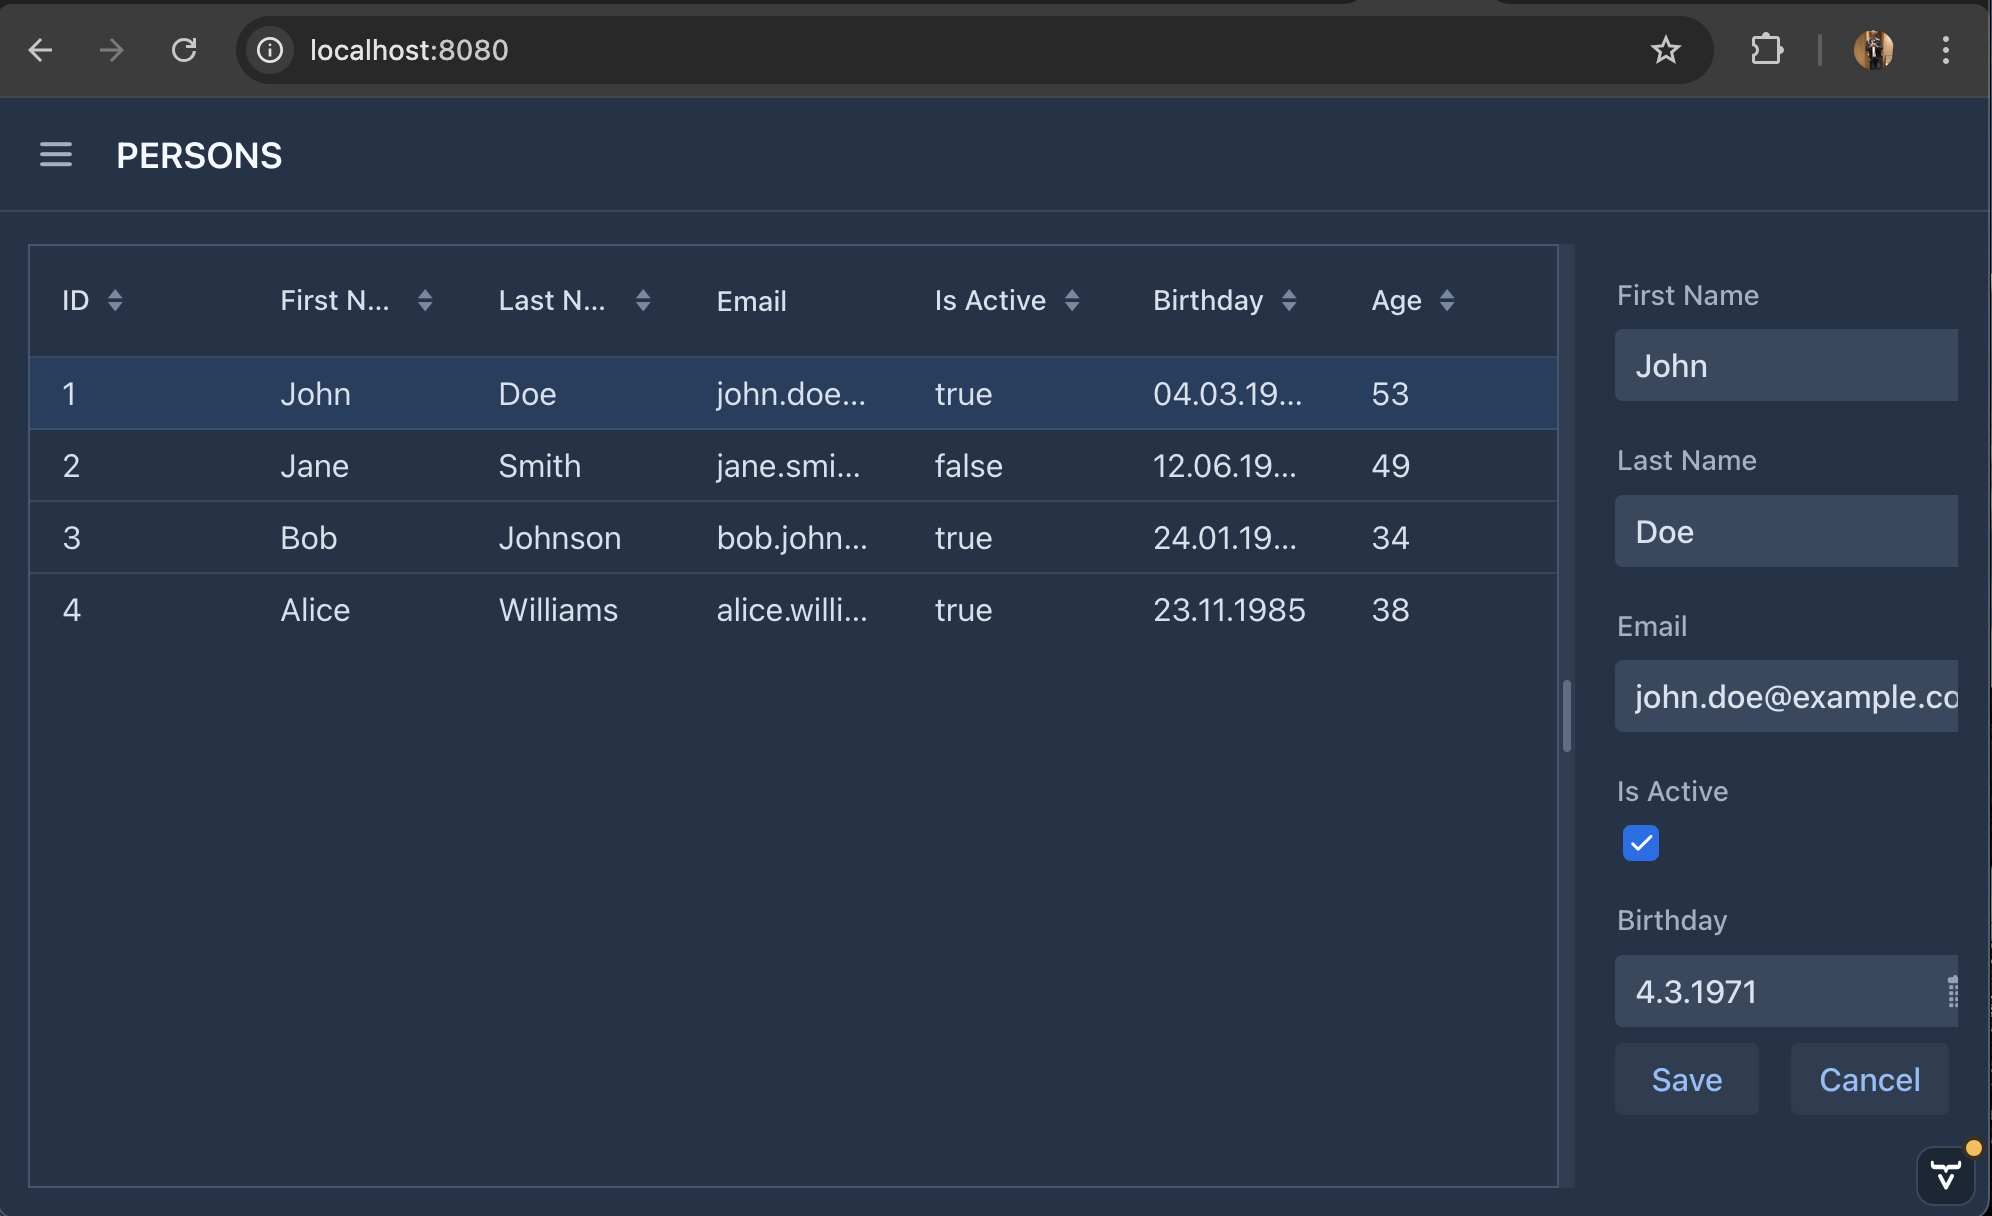
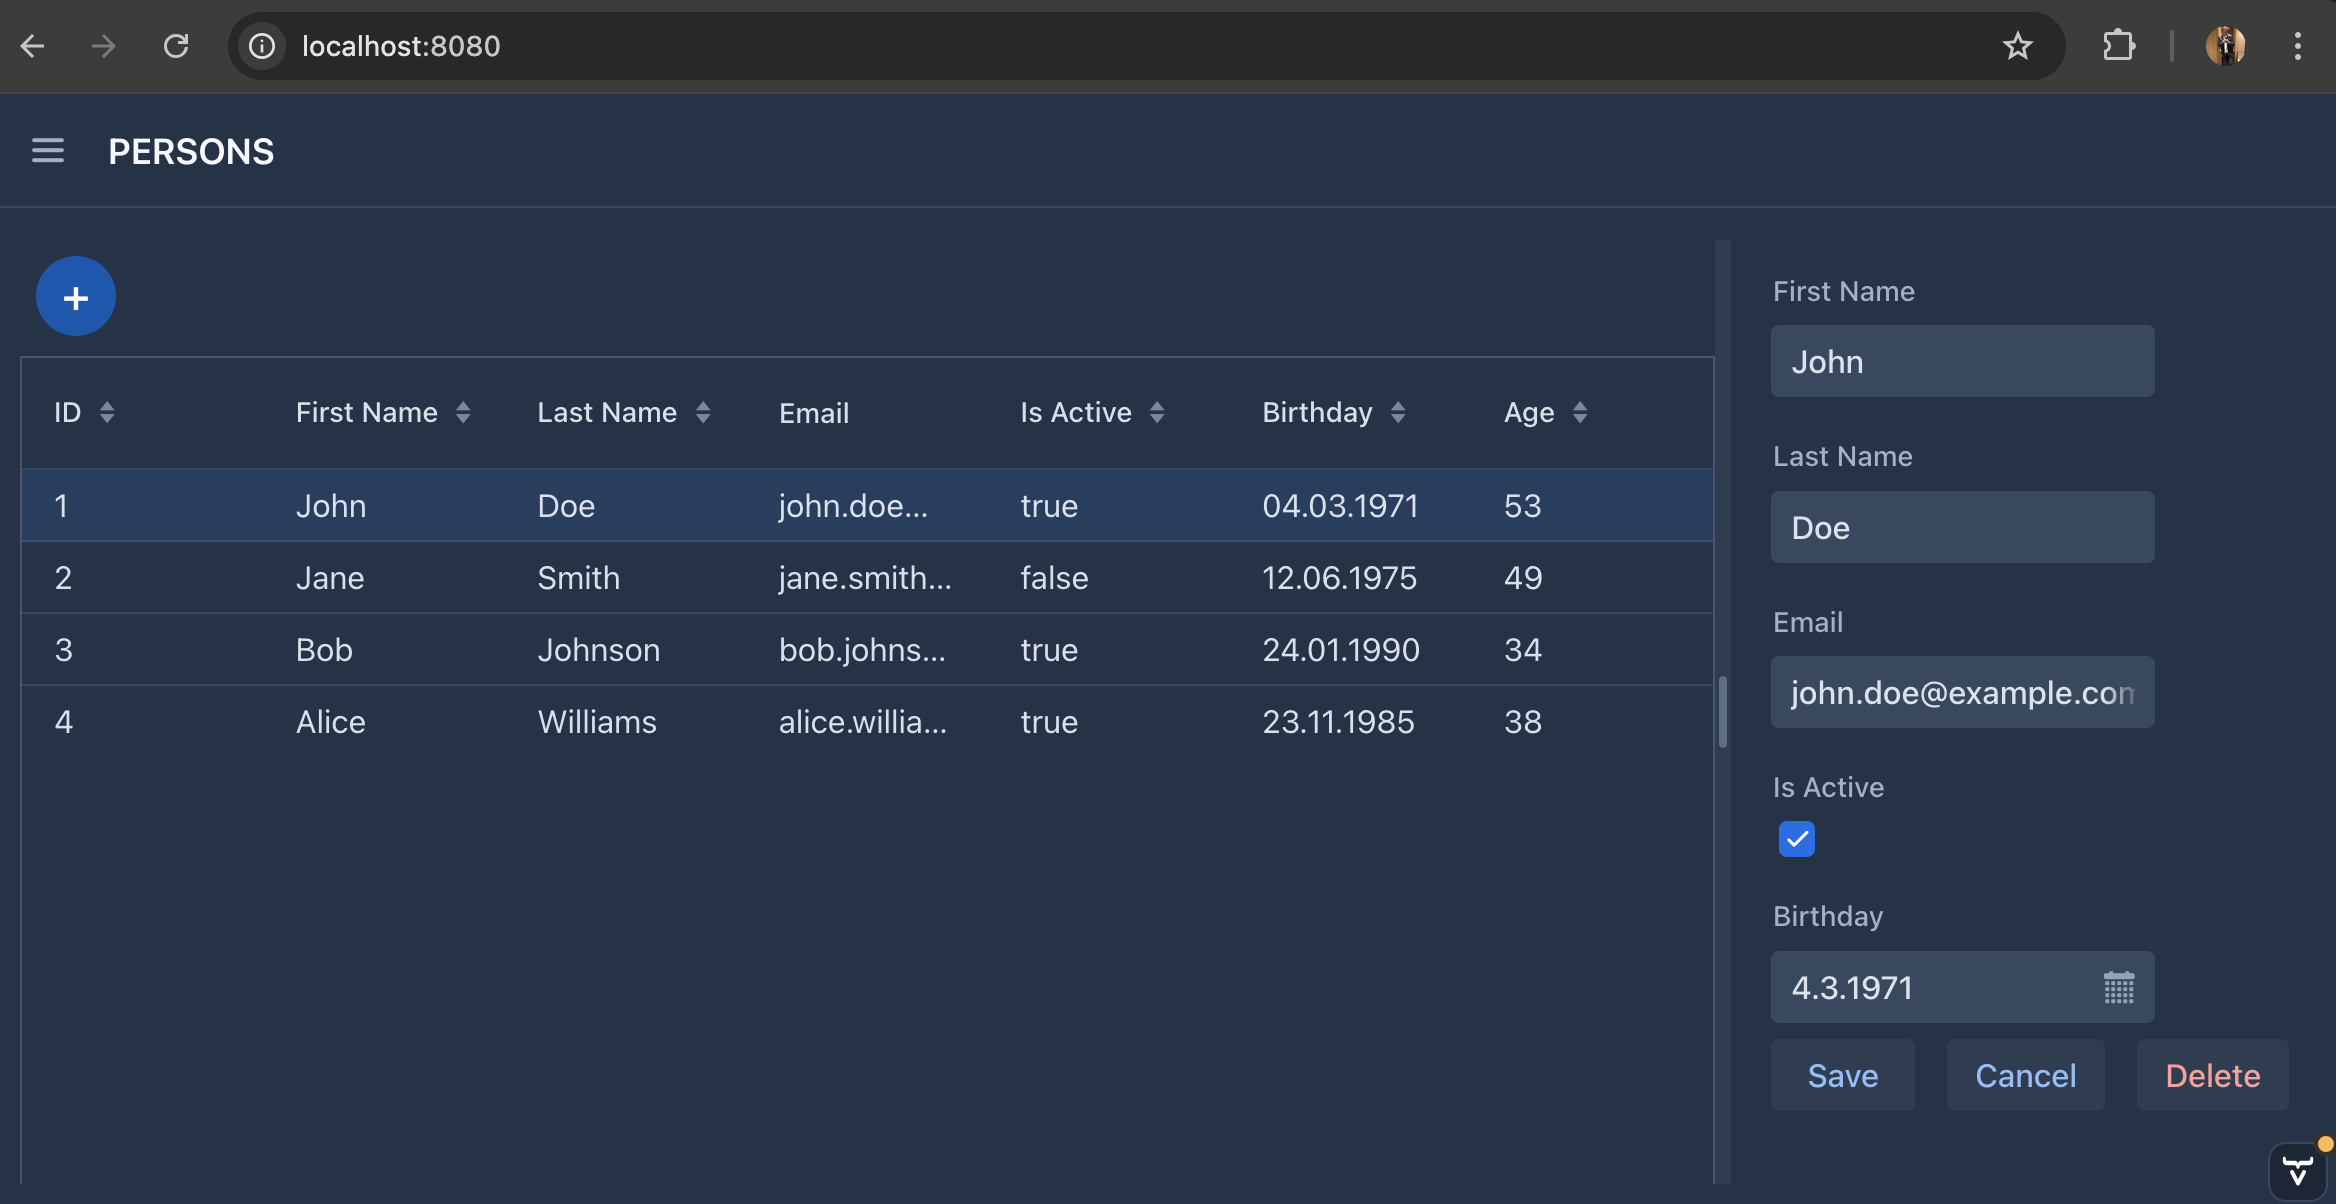
Adding add and delete entity to this demo

diff --git a/README.md b/README.md
@@ -80,8 +80,11 @@ public class Person implements BaseEntity {
 ### Persons View
 ![Persons](images/2.png)
 
+#### Delete Dialog
+![Persons](images/3.png)
+
 ### Addresses View
-![Addresses](images/3.png)
+![Addresses](images/4.png)
 
 ## The Views to extend GenericView<T>
 This view demonstrates how to bootstrap components or views using autogenerated Grids and Forms.
